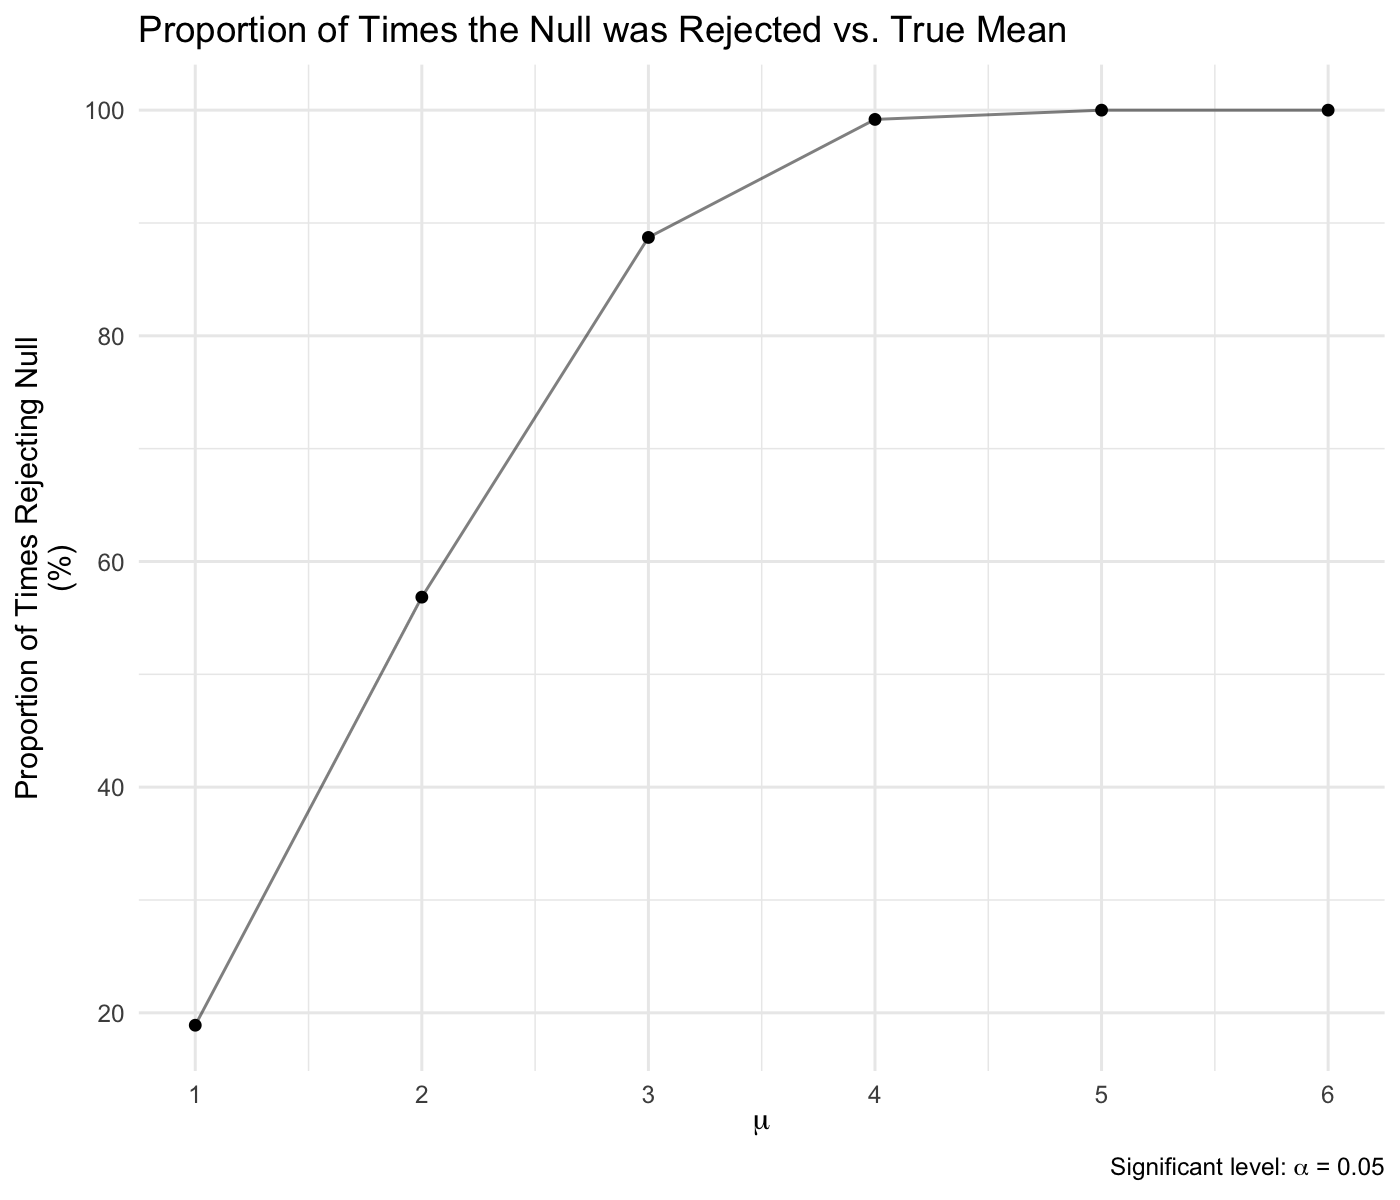
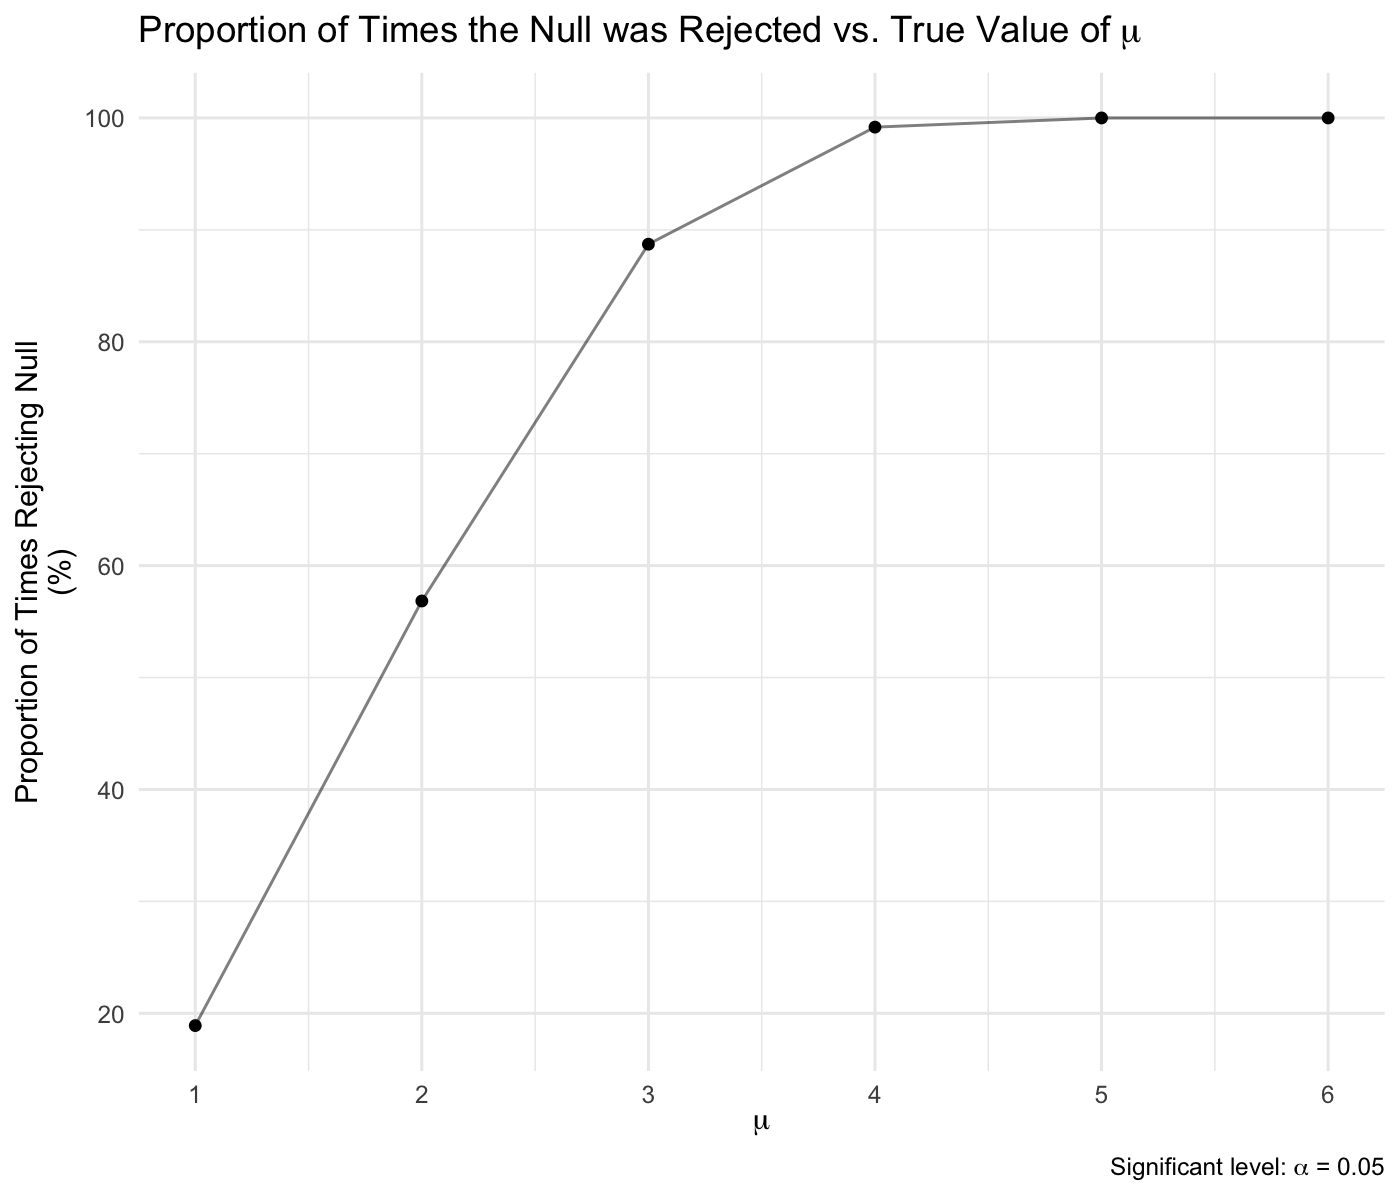
Problem 3 -- made a plot showing average estimate of mu_hat vs. true value of mu

diff --git a/p8105_hw5_sg3889.md b/p8105_hw5_sg3889.md
@@ -388,8 +388,8 @@ re_sim_results_df =
   unnest(power_df)
 ```
 
-Make a plot showing the proportion of times the null was rejected on the
-y axis and the true value of $\mu$ on the x axis.
+-   Make a plot showing the proportion of times the null was rejected on
+    the y axis and the true value of $\mu$ on the x axis.
 
 ``` r
 re_sim_results_df %>% 
@@ -411,7 +411,7 @@ re_sim_results_df %>%
   labs(
     x = expression(mu),
     y = "Proportion of Times Rejecting Null\n(%)",
-    title = "Proportion of Times the Null was Rejected vs. True Mean",
+    title = expression(paste("Proportion of Times the Null was Rejected vs. True Value of ", mu)),
     caption = expression(paste("Significant level: ", alpha, " = 0.05"))
   ) + 
   scale_x_continuous(
@@ -425,3 +425,28 @@ As we can observe from the above scatterplot, the proportion of times
 the null was rejected increases as the true mean becomes larger,
 indicating that the detectable effect size and power are positively
 correlated.
+
+-   Make a plot showing the average estimate of $\hat{\mu}$ on the y
+    axis and the true value of $\mu$ on the x axis.
+
+``` r
+re_sim_results_df %>% 
+  group_by(true_mean) %>% 
+  summarise(
+    mean_estimate = mean(estimate_hat)
+  ) %>% 
+  ggplot(aes(x = true_mean, y = mean_estimate)) +
+  geom_point() +
+  #geom_path(alpha = .5) +
+  labs(
+    x = expression(mu),
+    y = "Average Estimate",
+    title = expression(paste("Average Estimate of ", hat(mu), " vs. True Value of ", mu)),
+    caption = expression(paste("Significant level: ", alpha, " = 0.05"))
+  ) + 
+  scale_x_continuous(
+    breaks = 1:6
+  )
+```
+
+<img src="p8105_hw5_sg3889_files/figure-gfm/unnamed-chunk-19-1.png" width="90%" />
